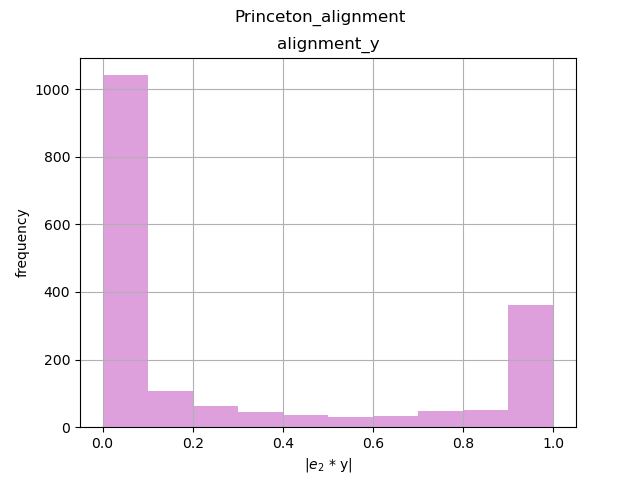
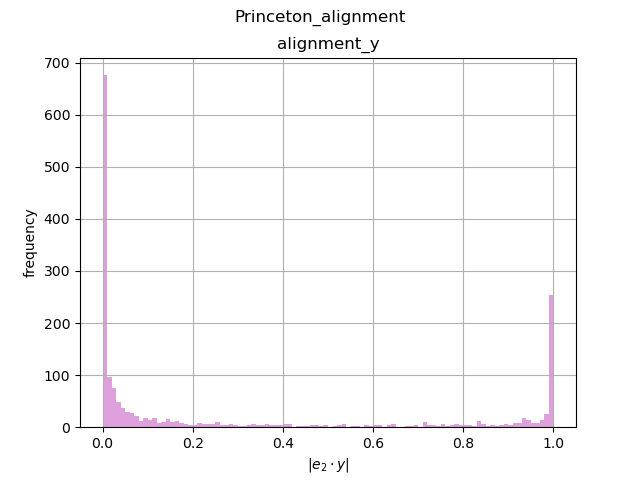
Updated plots bins

diff --git a/histograms.py b/histograms.py
@@ -5,7 +5,7 @@ import pylab as pl
 
 #vertices histogram
 
-# df = pd.read_csv('csv/Princeton_basic_mesh_info.csv')
+#df = pd.read_csv('csv/Princeton_basic_mesh_info.csv')
 # vertices = df['n_vertices']
 # vertices = [x for x in vertices if int(float(x))<= 20000]
 # plt.hist(vertices,color='plum', bins=80)
@@ -38,14 +38,14 @@ import pylab as pl
 
 
 #centroid before translation histogram
-# df2 = pd.read_csv('csv/Princeton_basic_mesh_info.csv')
-# centroid_origin = df2['d_centroid_origin']
-# plt.hist(centroid_origin[centroid_origin < 2], color='plum', bins=15)
-# plt.xlabel('distance centroid to origin')
-# plt.ylabel('frequency')
-# plt.title("Translation distribution before normalization")
-# plt.savefig("resample_plots/translation_before")
-# plt.show()
+df2 = pd.read_csv('csv/Princeton_basic_mesh_info.csv')
+centroid_origin = df2['d_centroid_origin']
+plt.hist(centroid_origin[centroid_origin < 2], color='plum', bins=100)
+plt.xlabel('distance centroid to origin')
+plt.ylabel('frequency')
+plt.title("Translation distribution before normalization")
+plt.savefig("resample_plots/translation_before")
+plt.show()
 
 #scaling distribution before normalization
 # df3 = pd.read_csv('csv/Princeton_bounding_box.csv')
@@ -91,7 +91,7 @@ import pylab as pl
 
 
 
-#alignment distribution before normalization 
+#alignment distribution before normalization
 # csv_name ="./csv/Princeton_alignment.csv"
 # csv_file_name = csv_name.split("/")[-1]
 # #print('File Name:', csv_name.split("\\")[-1])
@@ -101,23 +101,23 @@ import pylab as pl
 # #data_dict = df_raw.to_dict()
 # plt_name = csv_file_name.split('.')[:1]
 # plt_name = str(plt_name[0])
-
+#
 # fontsize =12
-# df_raw.hist(column=['alignment_x'], color='plum')
+# df_raw.hist(column=['alignment_x'], bins=100, color='plum')
 # plt.suptitle(plt_name, fontsize=fontsize)
 # plt.ylabel("frequency")
-# plt.xlabel("|$e_1$ * x|")
+# plt.xlabel("$|e_1 \cdot x|$")
 # plt.savefig("resample_plots/alignment_x_before")
 
-# df_raw.hist(column=['alignment_y'], color='plum')
+# df_raw.hist(column=['alignment_y'], bins=100, color='plum')
 # plt.suptitle(plt_name, fontsize=fontsize)
 # plt.ylabel("frequency")
-# plt.xlabel("|$e_2$ * y|")
+# plt.xlabel("$|e_2 \cdot y|$")
 # plt.savefig("resample_plots/alignment_y_before")
 
-# df_raw.hist(column=['alignment_z'], color='plum')
+# df_raw.hist(column=['alignment_z'], bins=100, color='plum')
 # plt.suptitle(plt_name, fontsize=fontsize)
 # plt.ylabel("frequency")
-# plt.xlabel("|$e_3$ * z|")
+# plt.xlabel("$|e_3 \cdot z|$")
 # plt.savefig("resample_plots/alignment_z_before")
-# plt.show()
+#plt.show()

diff --git a/normalised_hist.py b/normalised_hist.py
@@ -33,7 +33,7 @@ import numpy as np
 
 # df = pd.read_csv('csv/Princeton_remeshed_normalized_basic_mesh_info.csv')
 # centroid_origin = df['d_centroid_origin']
-# plt.hist(centroid_origin, range =[0.000000003, 0.00000001], bins = 15, color='plum')
+# plt.hist(centroid_origin, range=[0,1.1], bins = 100, color='plum')#range =[0.000000003, 0.00000001], bins = 15, color='plum')
 # plt.xlabel('distance centroid to origin')
 # plt.ylabel('frequency')
 # plt.title("Translation distribution after normalization")
@@ -87,7 +87,7 @@ import numpy as np
 
 
 
-#alignment after distribution 
+#alignment after distribution
 # csv_name ="./csv/Princeton_remeshed_normalized_alignment.csv"
 # csv_file_name = csv_name.split("/")[-1]
 # #print('File Name:', csv_name.split("\\")[-1])
@@ -98,23 +98,23 @@ import numpy as np
 # #data_dict = df_raw.to_dict()
 # plt_name = csv_file_name.split('.')[:1]
 # plt_name = str(plt_name[0])
-
+# #
 # fontsize =12
-# df_raw.hist(column=['alignment_x'], color='plum', range = [0,1])
+# df_raw.hist(column=['alignment_x'], bins=100, color='plum', range = [0,1])
 # plt.suptitle(plt_name, fontsize=fontsize)
 # plt.ylabel("frequency")
-# plt.xlabel("|$e_1$ * x|")
+# plt.xlabel("$|e_1 \cdot x|$")
 # plt.savefig("resample_plots/alignment_x_after")
 
-# df_raw.hist(column=['alignment_y'], color='plum', range = [0,1] )
+# df_raw.hist(column=['alignment_y'], bins=100, color='plum', range = [0,1] )
 # plt.suptitle(plt_name, fontsize=fontsize)
 # plt.ylabel("frequency")
-# plt.xlabel("|$e_2$ * y|")
+# plt.xlabel("$|e_2 \cdot y|$")
 # plt.savefig("resample_plots/alignment_y_after")
 
-# df_raw.hist(column=['alignment_z'], color='plum', range = [0,1])
+# df_raw.hist(column=['alignment_z'], bins=100, color='plum', range = [0,1])
 # plt.suptitle(plt_name, fontsize=fontsize)
 # plt.ylabel("frequency")
-# plt.xlabel("|$e_3$ * z|")
+# plt.xlabel("$|e_3 \cdot z|$")
 # plt.savefig("resample_plots/alignment_z_after")
 # plt.show()

diff --git a/main.py b/main.py
@@ -12,7 +12,7 @@ if __name__ == "__main__":
     dataset_remeshed_normalized.normalize()
 
     # takes a while to run and makes big files
-    face_area_plots.plot_face_area(dataset_original, dataset_remeshed)
+    #face_area_plots.plot_face_area(dataset_original, dataset_remeshed)
 
     # if len(sys.argv) == 2:
     #     dataset_remeshed_normalized.show_mesh(sys.argv[1])
